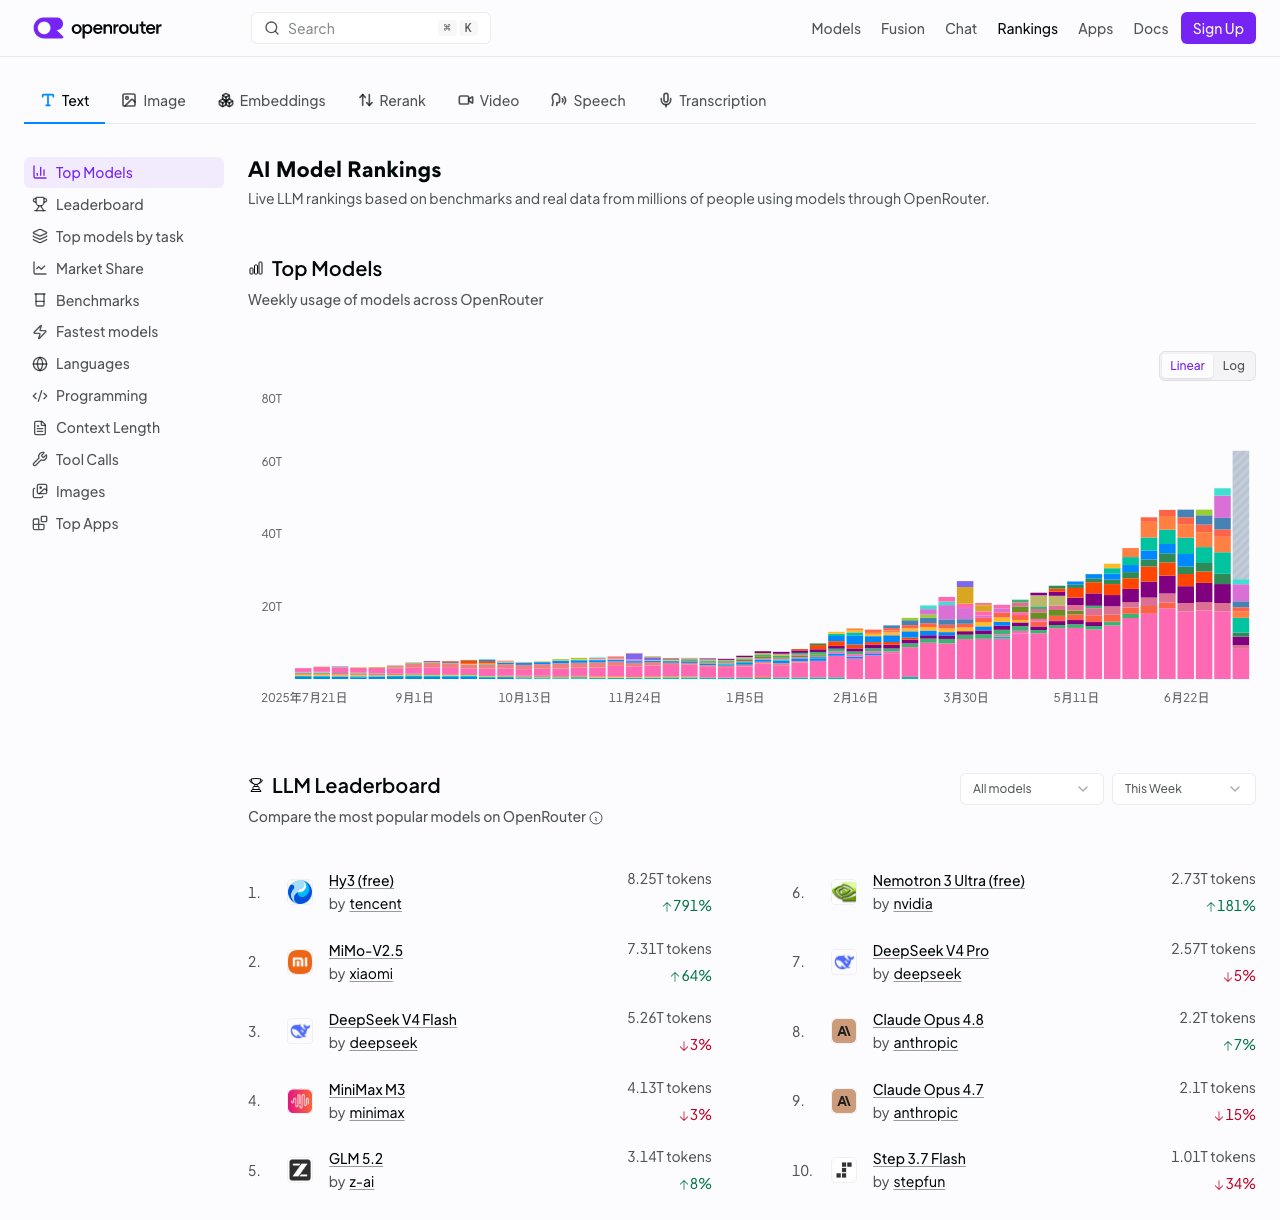
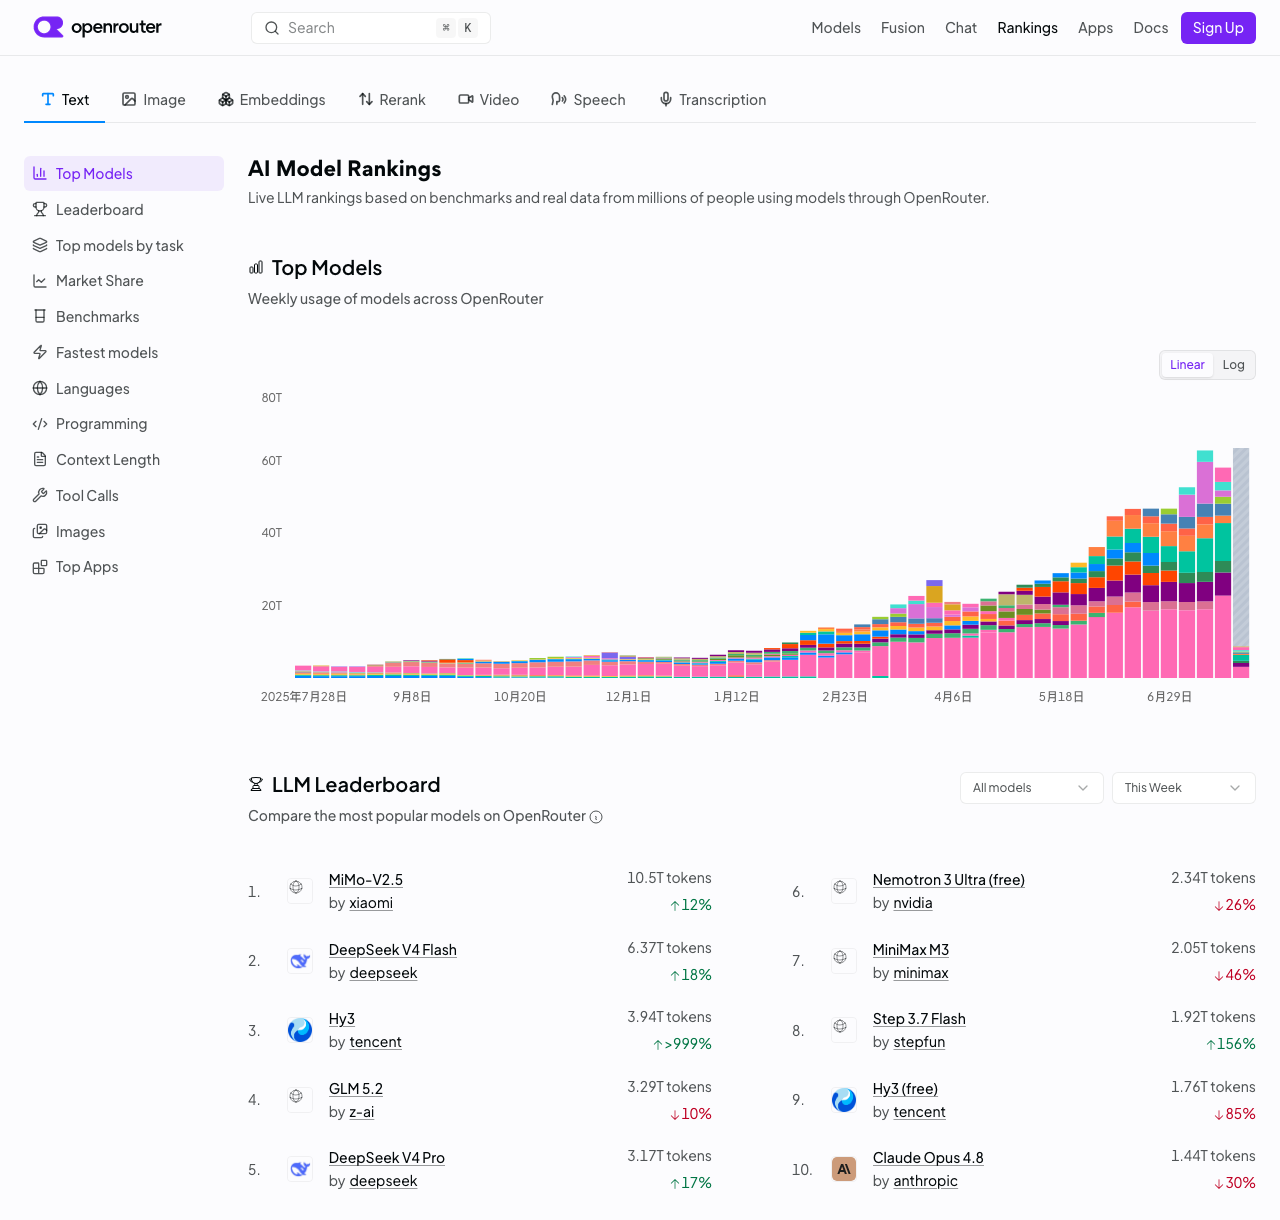
Update OpenRouter snapshot 2026-07-28T00:19:25Z

diff --git a/latest.md b/latest.md
@@ -1,6 +1,6 @@
 # OpenRouter Rankings Snapshot
 
-Generated at: 2026-07-16T00:02:26Z
+Generated at: 2026-07-28T00:19:25Z
 
 Source: https://openrouter.ai/rankings
 
